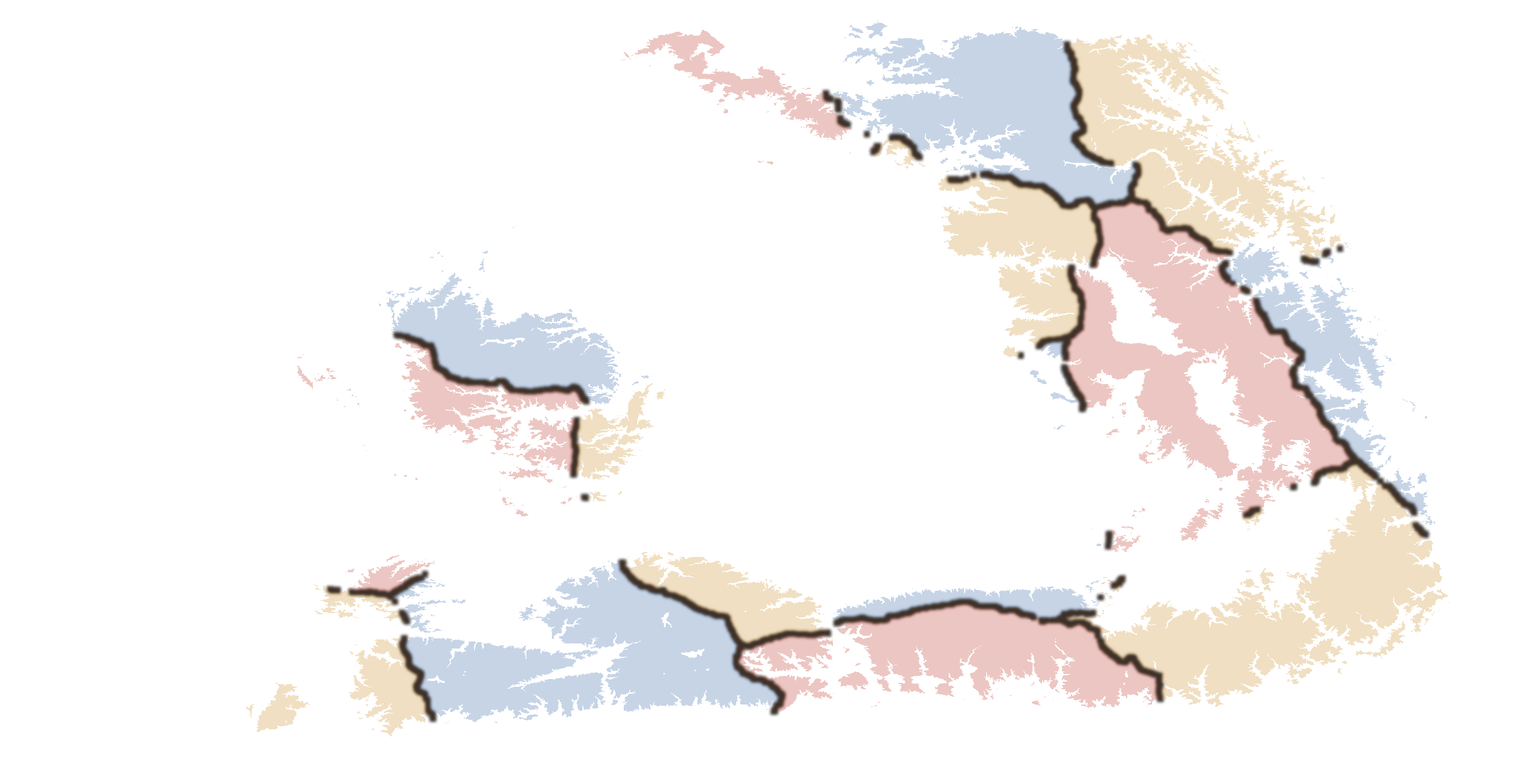
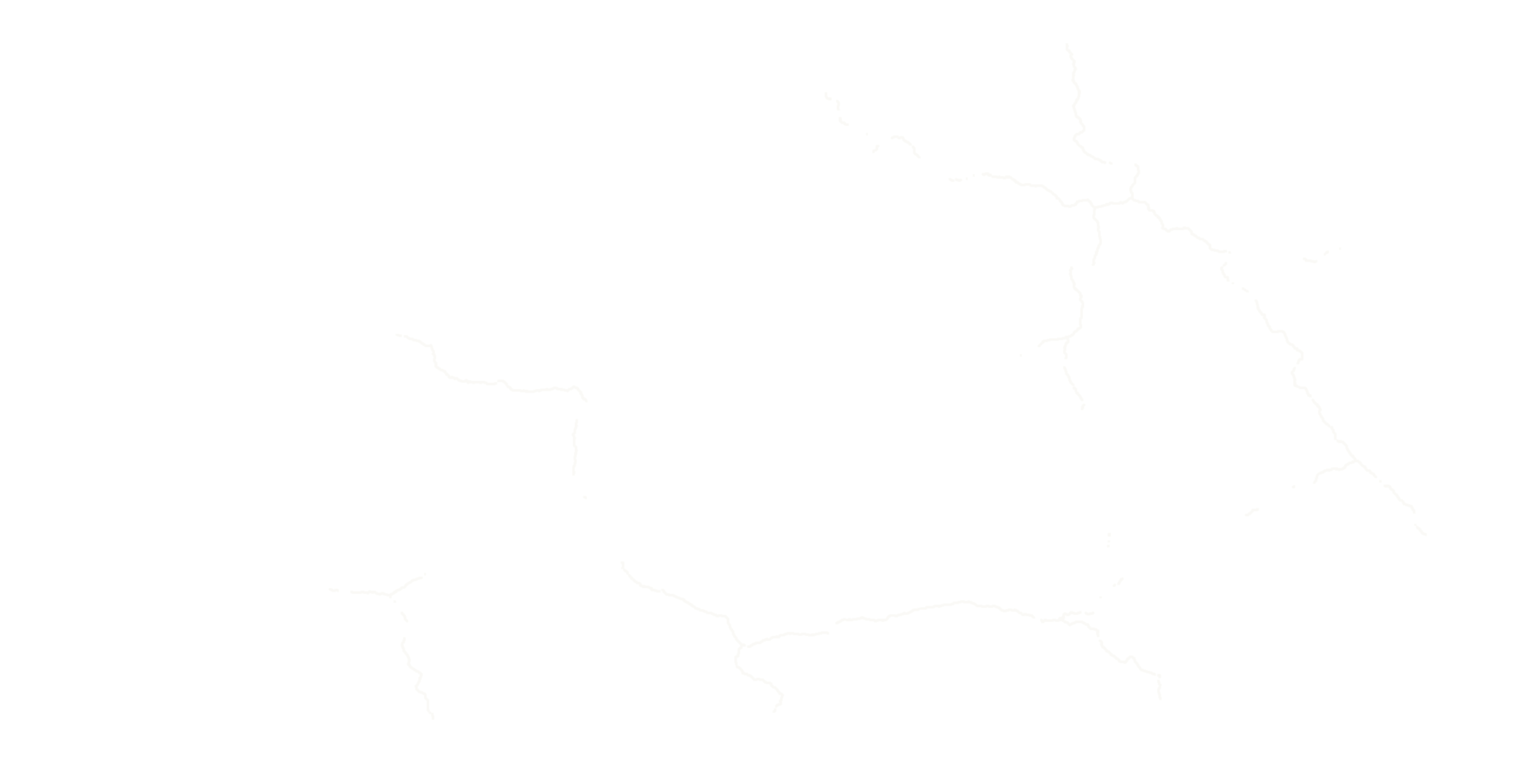
Границы регионов — светлая линия поверх земли, как в Total War
Автор посмотрел на цветную заливку территорий и сказал прямо: «сделай как в
total war границы, не размывай текстурки, а наложи сверху полупрозрачные
белые, нейтральные». Сделано ровно это.

Заливка территорий выключена: текстура прозрачна везде, кроме самой линии, и
земля под ней не трогается ни на пиксель (вне линии regionA = 0, и mix в
шейдере не меняет ничего). Код заливки оставлен рабочим — вернуть её можно
одной константой FILL_ALPHA, палитра и раскраска графа никуда не делись.

Линия из тёмно-коричневых чернил стала нейтральным тёплым белым. Тёмная на
буром рельефе читается плохо в принципе: сливается с любой тенью и любым
скальным пятном. Светлая видна на всём, от песка до снега, и не выглядит
трещиной в земле. Прозрачность 59% — текстура земли просвечивает, как автор
и просил.

Ширина подобрана на офлайн-рендере этого же шейдера через настоящий WebGPU
(tools/render_terrain.py), сразу на двух дистанциях камеры: вблизи (42,
обычный обзор) и издалека (120, почти предел MAX_DIST). Прежние 5 клеток с
сильным размытием вблизи расползались на треть экрана дымчатой полосой;
голая однопиксельная граница рискует мерцать на телефоне, где нет ни мипов,
ни сглаживания. 3 клетки с лёгким сглаживанием читаются на обеих дистанциях
и остаются линией, а не туманом.

Отдельно починен край линии. При выключенной заливке фоновый цвет текстуры
оставался чёрным, а мягкий край смешивается именно с ним — вместо светлого
[…]

Changed region(s): [[0.1562, 0.0308, 0.9688, 0.9558], [0.25, 0.37, 0.4375, 0.6783]]

diff --git a/engine/dist/assets/index-Bhg3f8_A.js b/engine/dist/assets/index-Bhg3f8_A.js
@@ -267,16 +267,9 @@ fn fs(in: VOut) -> @location(0) vec4f {
   // как нарисованные на карте, а не светиться поверх него ровным
   // неосвещённым цветом.
   //
-  // Раньше тут была ОДНА ТОЛЬКО линия границы. Автор сообщил: «полупрозрачная
-  // разметка на территории как бы уже наложена на карту, но я её почему-то не
-  // вижу» — и был прав по сути: регионов шестнадцать на весь мир 2400×1200,
-  // каждый около 380×380 клеток, а камера охватывает полсотни. По замеру
-  // прежней текстуры в кадре вокруг (0,0) линия занимала 16% площади, а
-  // вокруг (200,-150) и (-400,-200) — ровно 0%. Из середины региона границу
-  // нельзя было увидеть в принципе. Теперь текстура несёт ещё и слабую
-  // заливку территории своим цветом (см. bake_regions_overlay.py) — она
-  // читается в любой точке, а граница стала сменой цвета, заметной даже краем
-  // кадра.
+  // Разметка — светлая линия по границе региона, как на карте кампании Total
+  // War. Заливать территории цветом пробовали (см. историю
+  // bake_regions_overlay.py) — автор попросил не трогать текстуру земли.
   //
   // Воду не трогаем: заливка накрывала бы открытое море (regions-v1.bin делит
   // на регионы весь мир, а не только сушу). Маска суши уже вшита в саму
@@ -294,21 +287,22 @@ fn fs(in: VOut) -> @location(0) vec4f {
   let regionC = textureSampleLevel(texRegions, samp, regionUV, 0.0);
   let regionA = select(0.0, regionC.a, inRegionBounds);
 
-  // Красим ПОСЛЕ освещения, а не подмешиваем в albedo до него. Это и была
-  // причина «прошёлся камерой по всей карте, границ нигде нет»: albedo
+  // Линия кладётся ПОВЕРХ уже освещённого цвета обычным альфа-смешением, а
+  // не подмешивается в albedo до умножения на свет. Именно это и было
+  // причиной «прошёлся камерой по всей карте, границ нигде нет»: albedo
   // умножается на lighting, а на затенённом склоне оно около 0.3 — сдвиг
   // цвета в тридцать единиц превращался на экране в девять. Замерено на
   // офлайн-рендере этого же шейдера (tools/render_terrain.py): при прежней
-  // схеме два кадра, с наложением и без, отличались максимум на 16-20 из
-  // 255, то есть на 7% — глазом на буром рельефе это не читается вовсе.
+  // схеме два кадра, с наложением и без, отличались максимум на 16-20 из 255,
+  // то есть на 7% — глазом на буром рельефе это не читается вовсе.
   //
-  // Яркость заливка забирает у уже освещённой земли (lum), поэтому рельеф,
-  // тени и текстура видны сквозь неё, а сила накладки больше не зависит от
-  // того, светлый под ней склон или тёмный.
-  let litBase = albedo * lighting;
-  let lum = dot(litBase, vec3f(0.299, 0.587, 0.114));
-  let paint = regionC.rgb * clamp(0.30 + lum * 1.25, 0.0, 1.5);
-  let lit = mix(litBase, paint, regionA);
+  // Сюда же ушла и попытка красить территорию целиком: автор посмотрел и
+  // попросил ровно противоположного — «сделай как в total war границы, не
+  // размывай текстурки, а наложи сверху полупрозрачные белые, нейтральные».
+  // Поэтому текстура теперь прозрачна везде, кроме самой линии (см.
+  // bake_regions_overlay.py), а земля под ней остаётся собой: вне линии
+  // regionA = 0 и mix ниже не меняет ни единого пикселя.
+  let lit = mix(albedo * lighting, regionC.rgb, regionA);
   let d = distance(in.worldPos, fog.eye.xyz);
   let k = d * fog.color.w; let f = clamp(1.0 - exp(-k * k), 0.0, 1.0);
   return vec4f(mix(lit, fog.color.rgb, f), 1.0);

diff --git a/engine/src/renderer.ts b/engine/src/renderer.ts
@@ -344,16 +344,9 @@ fn fs(in: VOut) -> @location(0) vec4f {
   // как нарисованные на карте, а не светиться поверх него ровным
   // неосвещённым цветом.
   //
-  // Раньше тут была ОДНА ТОЛЬКО линия границы. Автор сообщил: «полупрозрачная
-  // разметка на территории как бы уже наложена на карту, но я её почему-то не
-  // вижу» — и был прав по сути: регионов шестнадцать на весь мир 2400×1200,
-  // каждый около 380×380 клеток, а камера охватывает полсотни. По замеру
-  // прежней текстуры в кадре вокруг (0,0) линия занимала 16% площади, а
-  // вокруг (200,-150) и (-400,-200) — ровно 0%. Из середины региона границу
-  // нельзя было увидеть в принципе. Теперь текстура несёт ещё и слабую
-  // заливку территории своим цветом (см. bake_regions_overlay.py) — она
-  // читается в любой точке, а граница стала сменой цвета, заметной даже краем
-  // кадра.
+  // Разметка — светлая линия по границе региона, как на карте кампании Total
+  // War. Заливать территории цветом пробовали (см. историю
+  // bake_regions_overlay.py) — автор попросил не трогать текстуру земли.
   //
   // Воду не трогаем: заливка накрывала бы открытое море (regions-v1.bin делит
   // на регионы весь мир, а не только сушу). Маска суши уже вшита в саму
@@ -371,21 +364,22 @@ fn fs(in: VOut) -> @location(0) vec4f {
   let regionC = textureSampleLevel(texRegions, samp, regionUV, 0.0);
   let regionA = select(0.0, regionC.a, inRegionBounds);
 
-  // Красим ПОСЛЕ освещения, а не подмешиваем в albedo до него. Это и была
-  // причина «прошёлся камерой по всей карте, границ нигде нет»: albedo
+  // Линия кладётся ПОВЕРХ уже освещённого цвета обычным альфа-смешением, а
+  // не подмешивается в albedo до умножения на свет. Именно это и было
+  // причиной «прошёлся камерой по всей карте, границ нигде нет»: albedo
   // умножается на lighting, а на затенённом склоне оно около 0.3 — сдвиг
   // цвета в тридцать единиц превращался на экране в девять. Замерено на
   // офлайн-рендере этого же шейдера (tools/render_terrain.py): при прежней
-  // схеме два кадра, с наложением и без, отличались максимум на 16-20 из
-  // 255, то есть на 7% — глазом на буром рельефе это не читается вовсе.
+  // схеме два кадра, с наложением и без, отличались максимум на 16-20 из 255,
+  // то есть на 7% — глазом на буром рельефе это не читается вовсе.
   //
-  // Яркость заливка забирает у уже освещённой земли (lum), поэтому рельеф,
-  // тени и текстура видны сквозь неё, а сила накладки больше не зависит от
-  // того, светлый под ней склон или тёмный.
-  let litBase = albedo * lighting;
-  let lum = dot(litBase, vec3f(0.299, 0.587, 0.114));
-  let paint = regionC.rgb * clamp(0.30 + lum * 1.25, 0.0, 1.5);
-  let lit = mix(litBase, paint, regionA);
+  // Сюда же ушла и попытка красить территорию целиком: автор посмотрел и
+  // попросил ровно противоположного — «сделай как в total war границы, не
+  // размывай текстурки, а наложи сверху полупрозрачные белые, нейтральные».
+  // Поэтому текстура теперь прозрачна везде, кроме самой линии (см.
+  // bake_regions_overlay.py), а земля под ней остаётся собой: вне линии
+  // regionA = 0 и mix ниже не меняет ни единого пикселя.
+  let lit = mix(albedo * lighting, regionC.rgb, regionA);
   let d = distance(in.worldPos, fog.eye.xyz);
   let k = d * fog.color.w; let f = clamp(1.0 - exp(-k * k), 0.0, 1.0);
   return vec4f(mix(lit, fog.color.rgb, f), 1.0);

diff --git a/engine/dist/index.html b/engine/dist/index.html
@@ -87,7 +87,7 @@
   #hmVersion{position:fixed;right:6px;bottom:4px;color:rgba(230,194,115,.55);
     font:10px monospace;pointer-events:none;z-index:20;text-shadow:0 1px 2px rgba(0,0,0,.8)}
 </style>
-  <script type="module" crossorigin src="./assets/index-yZFA53A2.js"></script>
+  <script type="module" crossorigin src="./assets/index-Bhg3f8_A.js"></script>
 </head>
 <body>
 <canvas id="gpu"></canvas>

diff --git a/worldgen/regions/bake_regions_overlay.py b/worldgen/regions/bake_regions_overlay.py
@@ -50,24 +50,34 @@ SEA = 0.235
 # мягкое размытие поверх — "растёкшиеся чернила" вместо жёсткого пиксельного
 # края. Значения те же, что были у линии до заливки: они уже проверены на
 # игровой камере (camera.ts: MIN_DIST=9..MAX_DIST=140).
-DILATE_PX = 4
-SOFT_BLUR_PX = 2.2
+# Ширина линии подобрана на офлайн-рендере ЭТОГО ЖЕ шейдера через настоящий
+# WebGPU (tools/render_terrain.py), на двух дистанциях камеры сразу — вблизи
+# (42, обычный обзор) и издалека (120, почти предел MAX_DIST): ядро в 5
+# клеток с размытием 1.6 вблизи расползалось на треть экрана дымчатой
+# полосой, а голая однопиксельная граница рискует мерцать на телефоне без
+# мипов и MSAA. 3 клетки с лёгким сглаживанием читаются на обеих дистанциях
+# и остаются линией, а не туманом.
+DILATE_PX = 1
+SOFT_BLUR_PX = 0.8
 
 # Насколько сильно наложение вмешивается в цвет земли. Заливка нарочно очень
 # слабая: это подсказка «чья территория», а не перекраска мира — рельеф,
 # текстуры и постройки должны остаться собой. Линия границы, наоборот,
 # заметная.
-# 80 (~31%) подобрано на офлайн-рендере ЭТОГО ЖЕ шейдера через настоящий
-# WebGPU (tools/render_terrain.py): на 40 territория читается только там, где
-# рядом соседний регион другого цвета, а в середине области почти незаметна;
-# на 110 и выше заливка уже перекрашивает землю, съедая текстуру и рельеф.
-FILL_ALPHA = 80
-BORDER_ALPHA = 232
+# Заливка территории цветом ВЫКЛЮЧЕНА. Пробовали — автор посмотрел и сказал
+# прямо: «сделай как в total war границы, не размывай текстурки, а наложи
+# сверху полупрозрачные белые, нейтральные». Так что на карте только линия
+# границы, а земля под ней остаётся собой. Код заливки оставлен рабочим:
+# поставить сюда ненулевое значение — и территории снова закрасятся своими
+# цветами (палитра и раскраска графа ниже никуда не делись).
+FILL_ALPHA = 0
+BORDER_ALPHA = 150
 
-# Тёмно-коричневые чернила границы — тон в духе темы интерфейса игры
-# (GILT/пергамент, см. renderTop/renderFolio в index.html), не чистый чёрный:
-# линия должна читаться как нарисованная на карте, не как трещина в рельефе.
-LINE_RGB = (42, 28, 18)
+# Нейтральный тёплый белый, а не прежние тёмно-коричневые чернила. Тёмная
+# линия на буром рельефе читается плохо в принципе: она сливается с любой
+# тенью и любым скальным пятном. Светлая — как на карте кампании Total War —
+# видна на всём, от песка до снега, и не выглядит трещиной в земле.
+LINE_RGB = (246, 245, 240)
 
 # Палитра заливки. Цвета насыщенные (при альфе 16% бледные превратились бы в
 # неразличимую грязь), но подобраны так, чтобы вместе выглядели как раскраска
@@ -155,8 +165,15 @@ def main():
         lut[r] = PALETTE[colour_of[r]]
     land = rm >= 0
     rgba = np.zeros((WORLD_H, WORLD_W, 4), dtype=np.uint8)
-    rgba[..., :3] = lut[np.clip(rm, 0, None)]
-    rgba[..., 3] = np.where(land, FILL_ALPHA, 0)
+    if FILL_ALPHA > 0:
+        rgba[..., :3] = lut[np.clip(rm, 0, None)]
+        rgba[..., 3] = np.where(land, FILL_ALPHA, 0)
+    else:
+        # Без заливки цвет вне линии всё равно должен быть цветом ЛИНИИ, а не
+        # чёрным: на мягком крае ниже rgb смешивается с этим фоном, и при
+        # чёрном фоне край линии превращался бы в тёмный ореол вместо
+        # светлого затухания. Альфа там всё равно 0 — сам фон невидим.
+        rgba[..., :3] = LINE_RGB
 
     # ---- линия границы поверх заливки. Граница ТОЛЬКО между двумя разными
     # настоящими регионами, не по берегу (вода не считается соседом).
